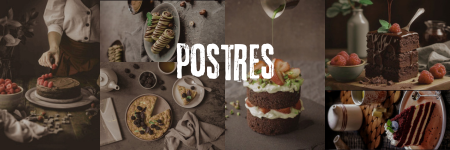
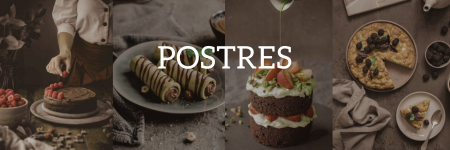
modificaciones en la carta

diff --git a/estilo.css b/estilo.css
@@ -52,6 +52,9 @@
 .lista li:hover {
     transform: scale(1.1);
 }
+.logo img:hover {
+    transform: scale(1.1);
+}
 
 .carousel {
     position: relative;
@@ -210,50 +213,55 @@
     align-items: center;
     justify-content: center;
 }
+h1 {
+    color: white;
+    font-size: 60px;
+    font-weight: 800;
+}
 
 .menu1 {
     background-image: url(img/fon5.png);
-    width: 100%;
-    height: 37vh;
+    width: 95%;
+    height: 36vh;
     display: flex;
     align-items: center;
-    justify-content: space-around;
+    justify-content: center;
     overflow: hidden;  
-    margin-bottom: 100px;
-    border-radius: 20px;
+    margin-bottom: 80px;
+    border-radius: 10px;
 }
 .menu2 {
     background-image: url(img/fon6.png);
-    width: 100%;
-    height: 37vh;
+    width: 95%;
+    height: 36vh;
     display: flex;
     align-items: center;
-    justify-content: space-around;
+    justify-content: center;
     overflow: hidden;   
-    margin-bottom: 100px;
-    border-radius: 20px;
+    margin-bottom: 80px;
+    border-radius: 10px;
 }
 .menu3 {
-    background-image: url(img/fon1.png);
-    width: 100%;
-    height: 37vh;
+    background-image: url(img/fon.png);
+    width: 95%;
+    height: 36vh;
     display: flex;
     align-items: center;
-    justify-content: space-around;
+    justify-content: center;
     overflow: hidden;   
-    margin-bottom: 100px;
-    border-radius: 20px;
+    margin-bottom: 80px;
+    border-radius: 10px;
 }
 .menu4 {
     background-image: url(img/fon7.png);
-    width: 100%;
-    height: 37vh;
+    width: 95%;
+    height: 36vh;
     display: flex;
     align-items: center;
-    justify-content: space-around;
+    justify-content: center;
     overflow: hidden; 
-    margin-bottom: 100px;
-    border-radius: 20px;  
+    margin-bottom: 80px;
+    border-radius: 10px;  
 }
 .hidden {
     display: none;
@@ -266,9 +274,9 @@
     height: auto;
 }
 .carta {
-    width: 186vh;
+    width: 184vh;
     border: 1px solid #b29d7b;
-    height: 25vh;
+    height: 27vh;
     border-radius: 10px;
     color: white;
     font-size: 30px;
@@ -318,7 +326,7 @@ ul {
     background: black;
     padding: 80px 0;
     width: 100%;
-    height: 40vh;
+    height: 41vh;
 }
 
 .footer-row {
@@ -333,8 +341,8 @@ ul {
 
 .social-link a {
     display: inline-block;
-    min-height: 45px;
-    width: 40px;
+    min-height: 43px;
+    width: 42px;
     background-color: rgba(51, 51, 51, 0.726);
     margin: 0 10px 10px 0;
     text-align: center;
@@ -345,6 +353,33 @@ ul {
 
 .social-link a:hover {
     background-color: #b29d7b;
+}
+.social-icon {
+    position: relative;
+    display: inline-block;
+    text-decoration: none;
+    color: inherit;
+}
+
+.tooltip {
+    position: absolute;
+    bottom: 100%;
+    left: 50%;
+    transform: translateX(-50%);
+    padding: 5px;
+    background-color: #333;
+    color: #fff;
+    border-radius: 5px;
+    font-size: 16px;
+    white-space: nowrap;
+    opacity: 0;
+    visibility: hidden;
+    transition: opacity 0.3s;
+}
+
+.social-icon:hover .tooltip {
+    opacity: 1;
+    visibility: visible;
 }
 
 .titulo-final{
@@ -368,6 +403,100 @@ ul {
     display: flex;
     justify-content: center;
     align-items: center;
+}
+
+@media (min-width: 600px) and (max-width: 1024px) {
+    .navbar {
+        padding: 30px 20px;
+    }
+
+    .logo {
+        margin-left: 50px;
+    }
+
+    .navbar a {
+        font-size: 14px;
+        padding: 0.3rem 0.5rem;
+    }
+
+    .carousel img {
+        height: 40vh;
+    }
+
+    .block {
+        width: 40%;
+        height: 50vh;
+        padding: 15px;
+    }
+
+    .block img {
+        width: 120px;
+    }
+
+    .block p {
+        font-size: 18px;
+    }
+
+    .titleSec1, .terminos, .seccionCompleta, .central, .title {
+        height: auto;
+        width: 100%;
+        padding: 10px;
+    }
+    h1 {
+        font-size: 40px;
+    }
+    .menu1 {
+        height: 25vh;
+        width: 90%;
+        margin-bottom: 90px;
+        background-image: url(img/mediaTdesayunos.png);
+    }
+    .menu2 {
+        height: 25vh;
+        width: 90%;
+        margin-bottom: 90px;
+        background-image: url(img/mediaTalmuerzos.png);
+    }
+    .menu3 {
+        height: 25vh;
+        width: 90%;
+        margin-bottom: 90px;
+        background-image: url(img/mediaTbebidas.png);
+    }
+    .menu4 {
+        height: 25vh;
+        width: 90%;
+        margin-bottom: 90px;
+        background-image: url(img/mediaTpostres.png);
+    }
+
+    .carta {
+        width: 100vh;
+        font-size: 24px;
+    }
+
+    .carta img {
+        width: 100px;
+    }
+
+    .nombreMenu {
+        font-size: 30px;
+    }
+    .relleno {
+        height: 15vh;
+    }
+
+    .contacto {
+        font-size: 24px;
+    }
+
+    .titulo-final {
+        font-size: 18px;
+    }
+
+    .footer {
+        padding: 50px 0;
+    }
 }
 
 @media (max-width: 768px) {

diff --git a/index.html b/index.html
@@ -6,13 +6,13 @@
     <link rel="stylesheet" href="estilo.css">
     <link rel="stylesheet" href="https://cdnjs.cloudflare.com/ajax/libs/font-awesome/6.2.1/css/all.min.css">
     <link rel="stylesheet" href="https://cdnjs.cloudflare.com/ajax/libs/font-awesome/5.15.4/css/all.min.css">
-    <title>La casa santandereana</title>
+    <title>The House</title>
 </head>
 <body>
 
     <header class="head">
         <div class="logo">
-            <a href="#inicio"><img src="img/logoPrin.png" width="100"></a>
+            <a href="#contacto"><img src="img/logoPrin.png" width="100"></a>
         </div>
         <nav class="navbar">
             <ul class="lista">
@@ -61,7 +61,7 @@
                 <button class="botonPromo"><strong>30%</strong> De Descuento</button>
             </div>
         </section>
-        <section class="terminos">Aplican términos y condiciones</section>
+        <section class="terminos">Promociones todos los martes y viernes, ¡aprovecha!<br><br>Aplican términos y condiciones</section>
     </main>
     <script src="index.js"></script>
 
@@ -117,6 +117,7 @@
                     <li class="carta"><img src="img/jugo3.jpg">Té helado <strong>$4.100</strong></li>
                     <li class="carta"><img src="img/jugo4.jpg">Coca cola <strong>$5.000</strong></li>
                     <li class="carta"><img src="img/jugo5.jpg">Limonada <strong>$4.900</strong></li>
+                    <li class="carta"><img src="img/jugo7.jpg">Batidos <strong>$8.100</strong></li>
                 </ul>
             </div>
     
@@ -141,26 +142,37 @@
     <section class="relleno"></section>
 
 
-        <section class="seccion3">
+        <section class="seccion3" id="contacto">
             <footer class="footer">
             <div class="containerFooter">
                 
             <div class="footer-links">
-                <h3 class="contacto">CONTACTANOS</h3>
+            
                 <div class="social-link">
-                 <a href=" #"><i class="fab fa-facebook-f"></i></a>
-                 <a href=" #"><i class="fab fa-instagram"></i></a>
-                 <a href=" #"><i class="fab fa-twitter"></i></a>
-                 <a href=" #"><i class="fab fa-linkedin"></i></a>
-    
-                </div>
-                
+    <a href="https://www.facebook.com/" class="social-icon">
+        <i class="fab fa-facebook-f"></i>
+        <span class="tooltip">Facebook</span>
+    </a>
+    <a href="https://www.instagram.com/accounts/login/" class="social-icon">
+        <i class="fab fa-instagram"></i>
+        <span class="tooltip">Instagram</span>
+    </a>
+    <a href="https://x.com/?lang=es" class="social-icon">
+        <i class="fab fa-twitter"></i>
+        <span class="tooltip">Twitter</span>
+    </a>
+    <a href="https://co.linkedin.com/" class="social-icon">
+        <i class="fab fa-linkedin"></i>
+        <span class="tooltip">LinkedIn</span>
+    </a>
+</div>
+<h3 class="contacto">CONTACTANOS</h3>   
             </div>
         </div>
             
     
         </div>
-        <h2 class="titulo-final">&copy; La Casa Santandereana | Restaurante</h2>
+        <h2 class="titulo-final">&copy; The House | Restaurante</h2>
     </footer>
         
     </section>

diff --git a/script.js b/script.js
@@ -10,13 +10,13 @@ document.querySelectorAll('.toggleButton').forEach(function(button) {
         });
         
         document.querySelectorAll('.toggleButton').forEach(function(btn) {
-            btn.textContent = ' ';
+            btn.textContent = '';
         });
         
         if (!isVisible) {
             targetElement.classList.remove('hidden');
             targetElement.classList.add('visible');
-            this.textContent = ' ';
+            this.textContent = '';
         }
     });
 });
